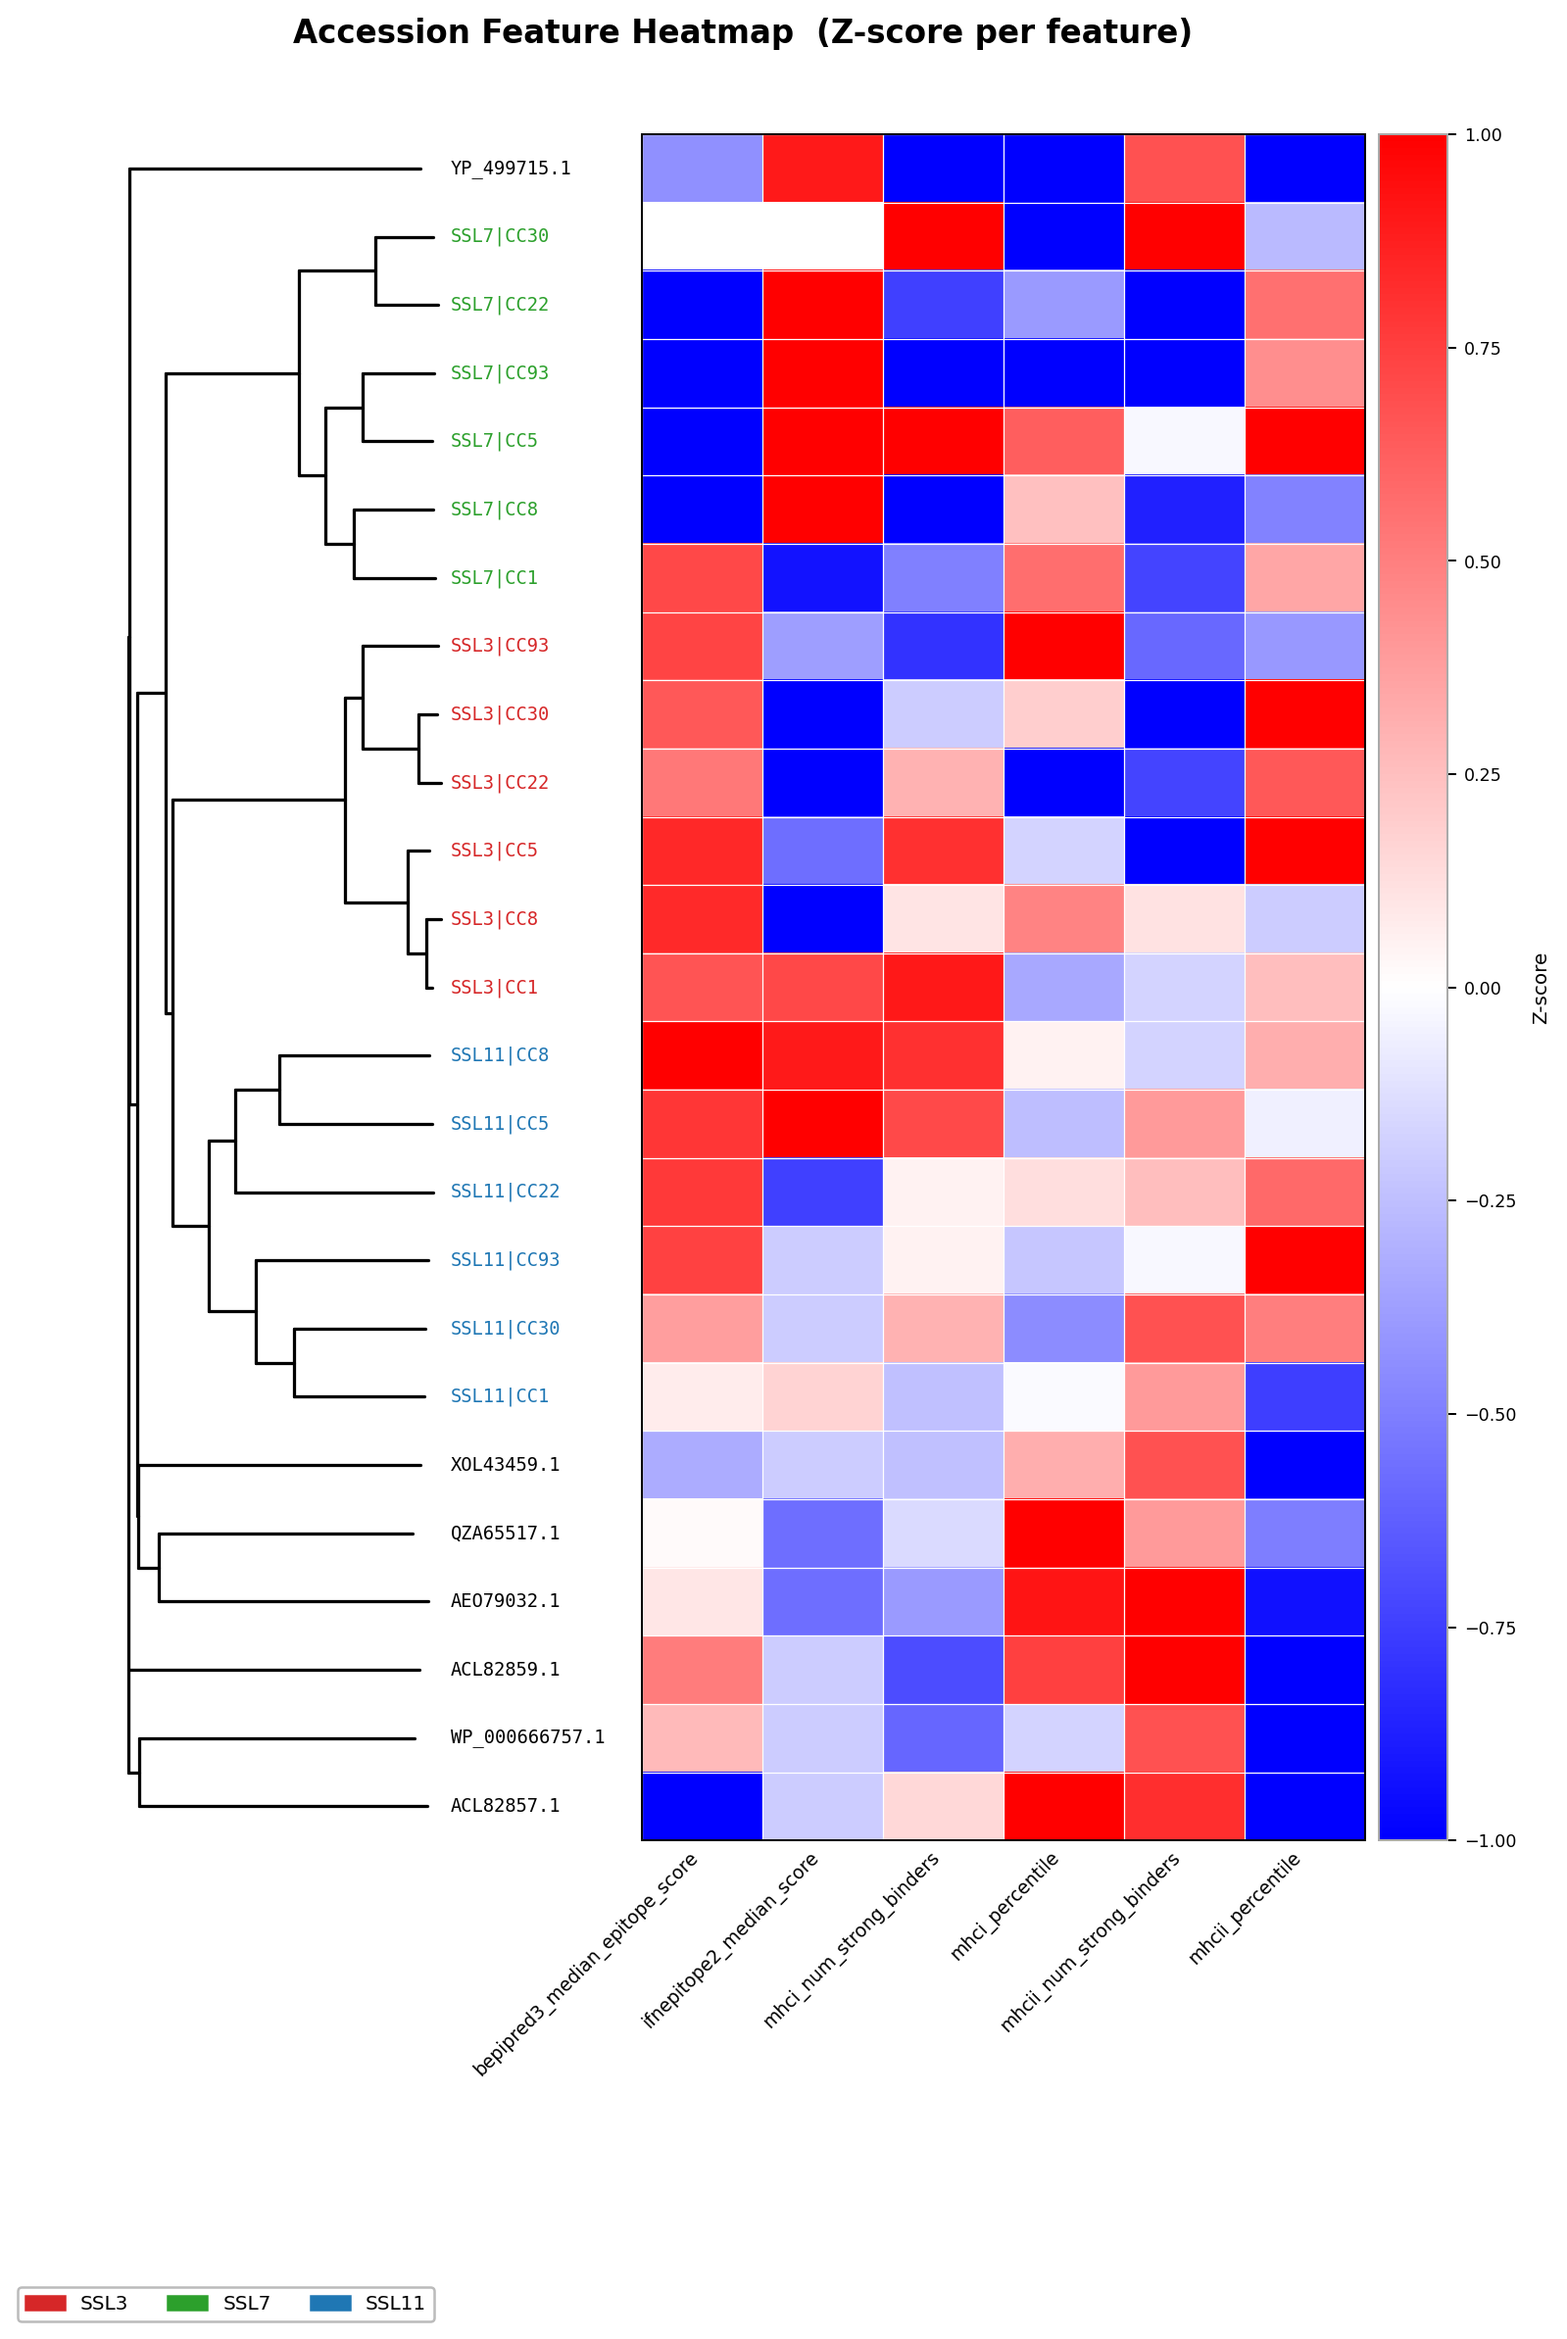
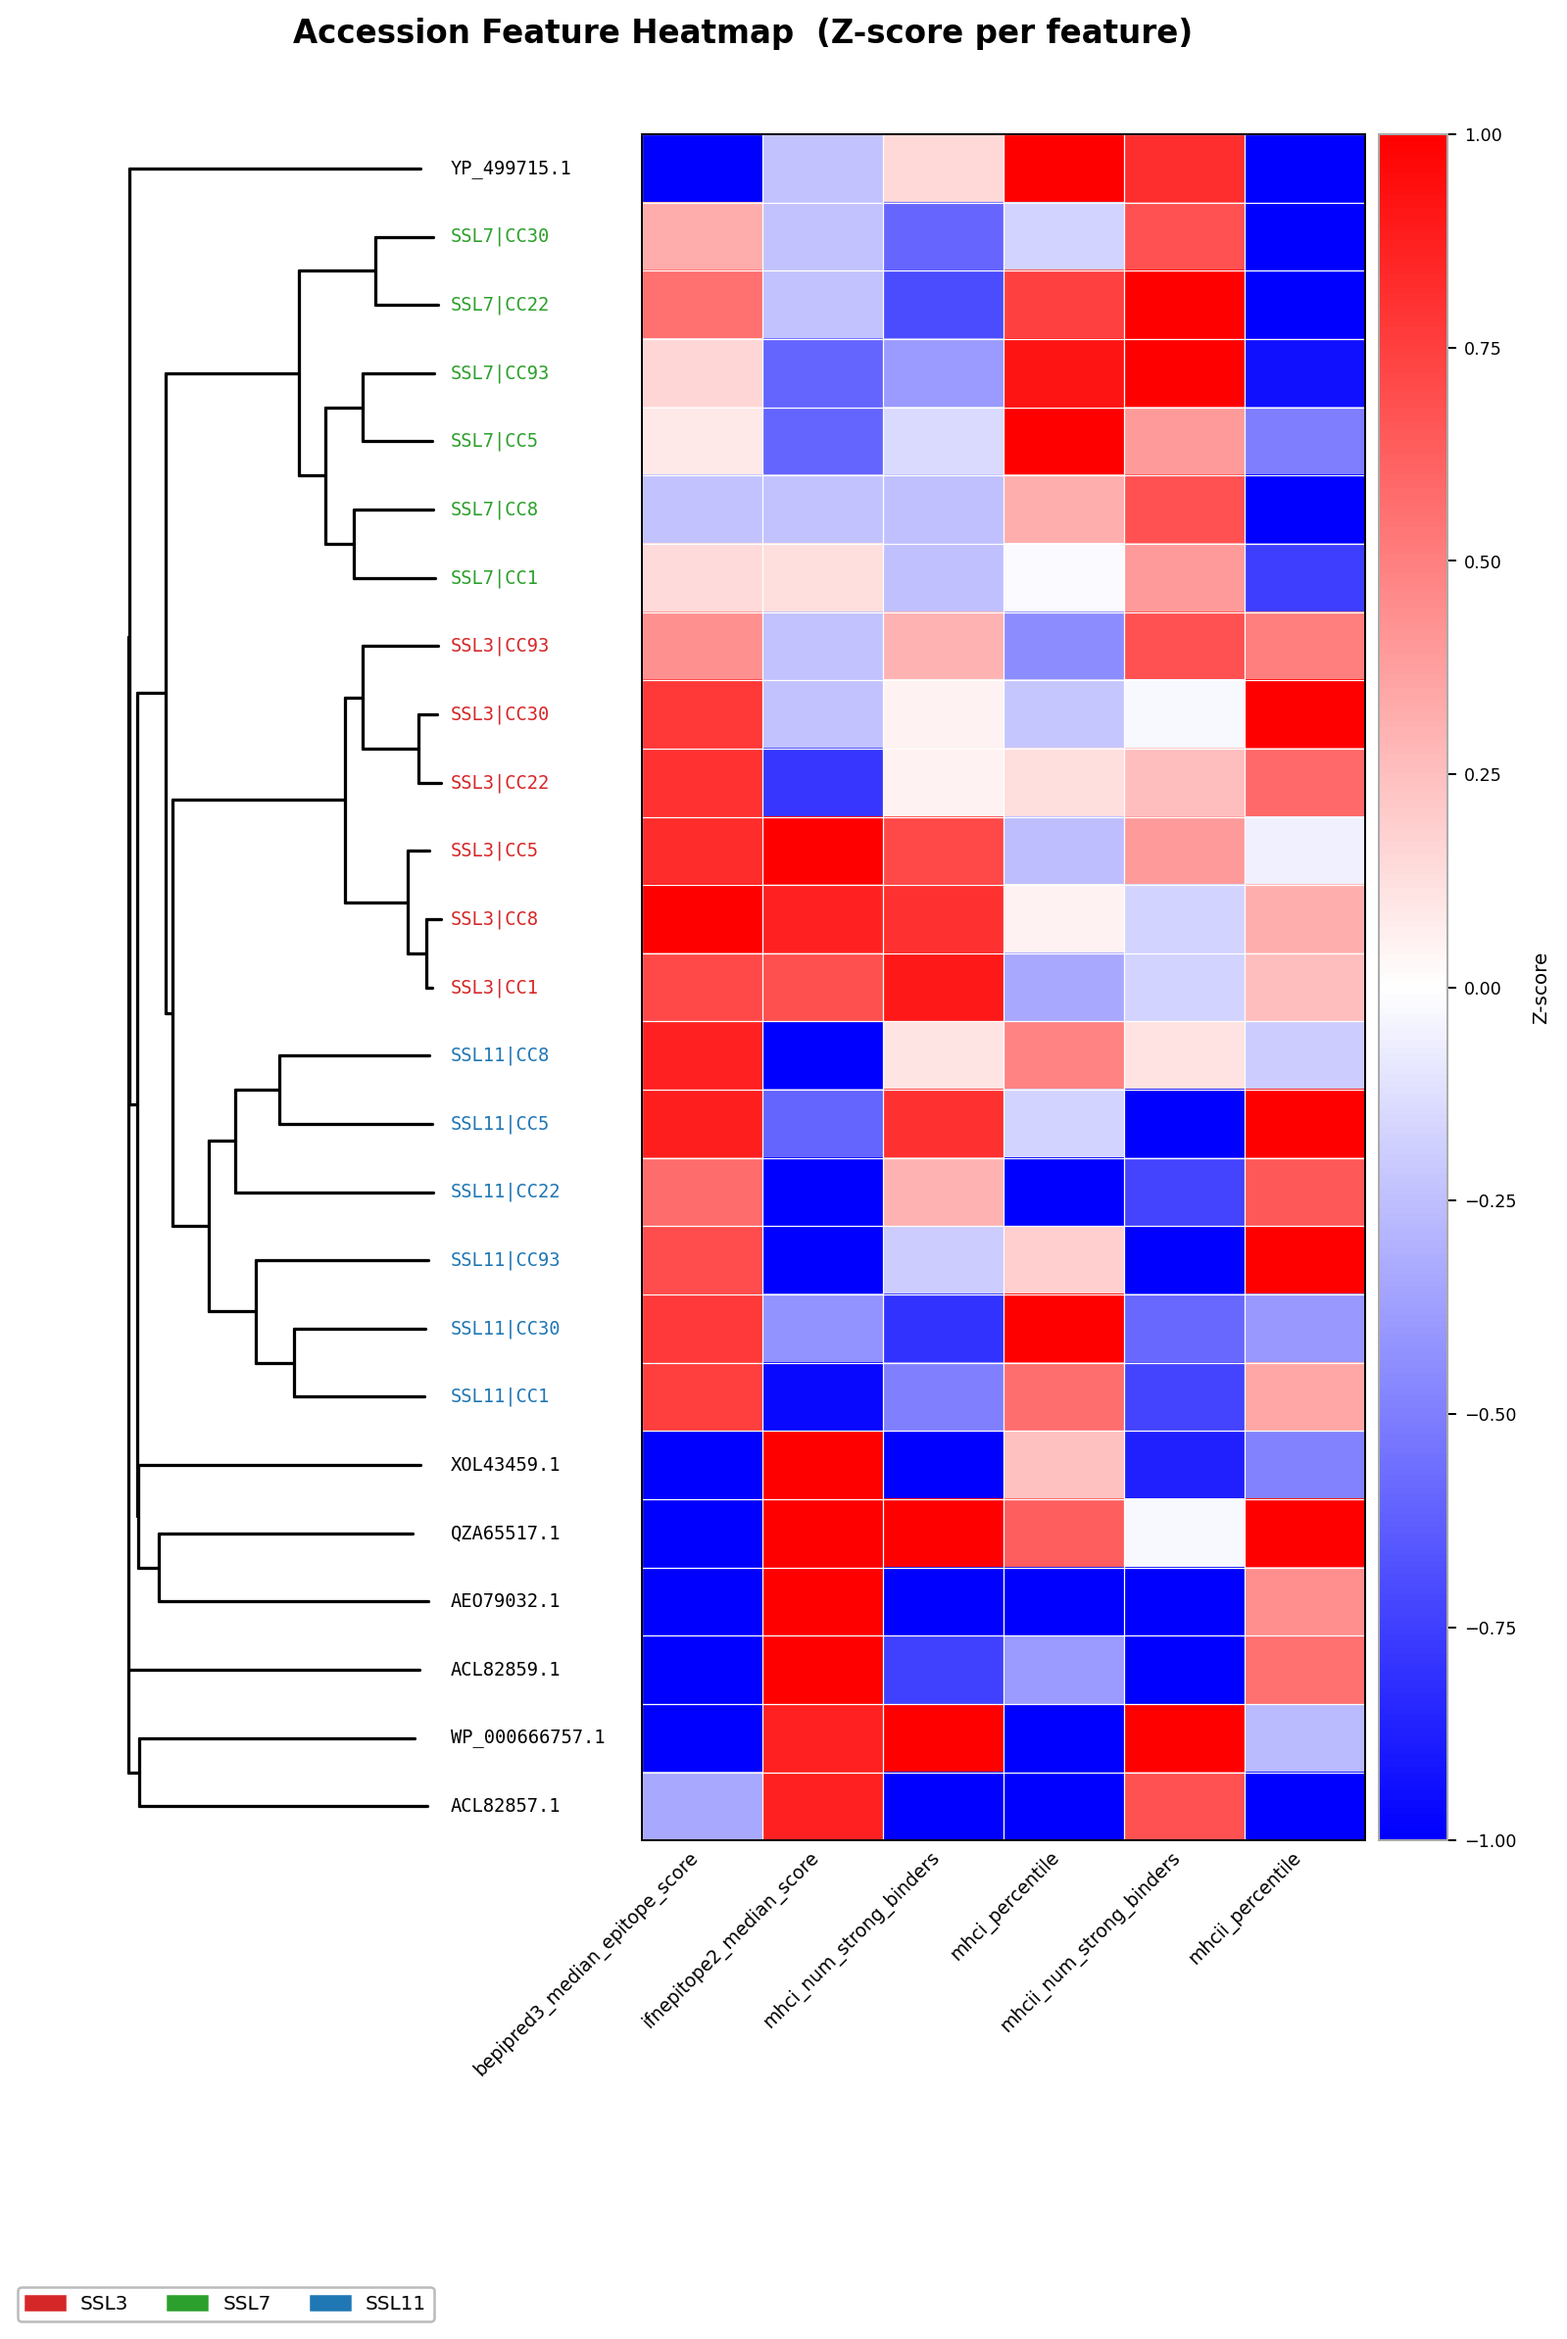
correcting heatmap and plotting script

Changed region(s): [[0.3984, 0.031, 0.8887, 0.806]]

diff --git a/bin/plot_immunogenicity_tree.py b/bin/plot_immunogenicity_tree.py
@@ -178,7 +178,7 @@ def main(input_csv, newick_tree_file, output_file):
     norm = TwoSlopeNorm(vmin=-1, vcenter=0, vmax=1)
     cmap = plt.cm.bwr
 
-    z_arr = z.values
+    z_arr = z.values[::-1]
 
     im = ax_heat.imshow(
         z_arr,
